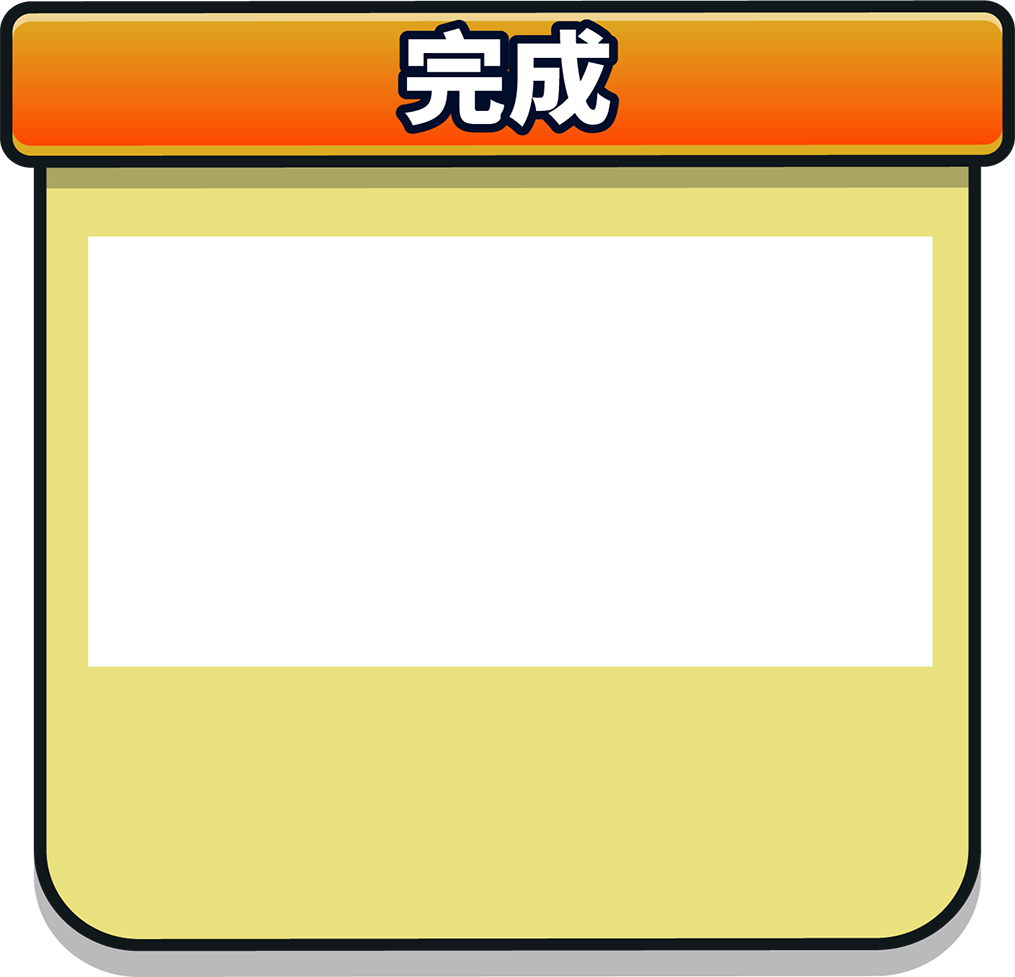
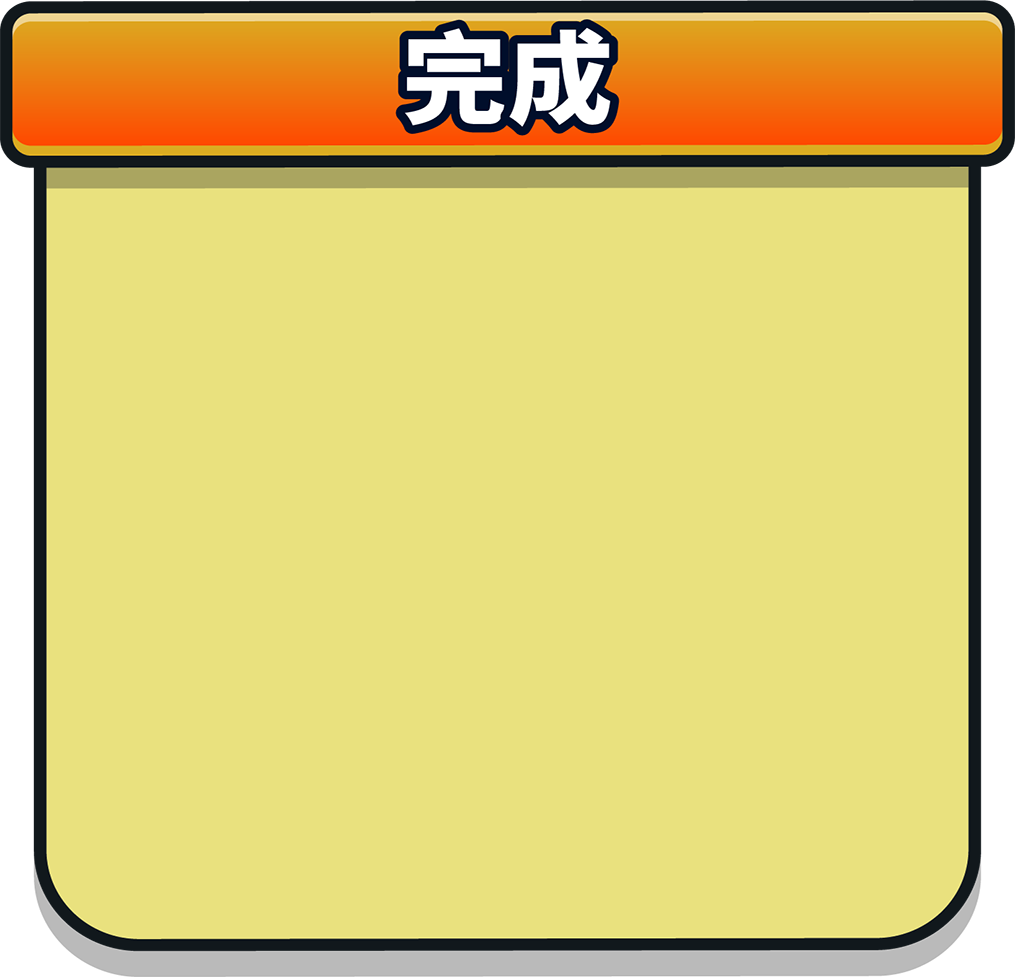
update: add end animation

diff --git a/src/games/game_26/components/DialogTipBox.js b/src/games/game_26/components/DialogTipBox.js
@@ -1,7 +1,7 @@
 import Phaser from 'phaser'
 import EndSceneExitButton from './EndSceneExitButton'
 import RetryButton from './RetryButton'
-// import { createVictoryAnimations } from '../assets/animations/VictoryAnimation';
+
 import GameSprite from '../components/GameSprite';
 
 export default class DialogTipBox extends Phaser.GameObjects.Container {
@@ -15,13 +15,13 @@ export default class DialogTipBox extends Phaser.GameObjects.Container {
 
         this.setSize(dialogTipBox.width, dialogTipBox.height);
 
-        // createVictoryAnimations(scene.anims);
 
-        let victoryAnimation= new GameSprite(scene, 25, -20, 'questionPicture2').setScale(0.3);
-        // victoryAnimation.play('victoryAnimation');
+
+        let endAnimation = new GameSprite(scene, 0, -40, 'endTexture').setScale(1.4);
+        endAnimation.play('endAnimation');
         this.add([
             dialogTipBox,
-            victoryAnimation,
+            endAnimation,
             new RetryButton(scene, - dialogTipBox.width * 0.22, dialogTipBox.height * 0.35, 'Tutor'),
             new EndSceneExitButton(scene, dialogTipBox.width * 0.22, dialogTipBox.height * 0.35)
         ])

diff --git a/src/games/game_26/scenes/EndScene.js b/src/games/game_26/scenes/EndScene.js
@@ -1,5 +1,6 @@
 import BasicScene from './BasicScene'
 import GameEndDialog from '../components/DialogTipBox'
+import { createEndAnimation } from '../assets/animations/EddAnimation';
 
 
 
@@ -13,7 +14,7 @@ export default class EndScene extends BasicScene {
     create() {
 
         super.create();
-
+        createEndAnimation(this.anims);
         this.buildBg('backgroundTutorEnd')
 
         this.endBroad = new GameEndDialog(this, this.getColWidth(6), this.getRowHeight(6));

diff --git a/src/games/game_26/scenes/PreloaderScene.js b/src/games/game_26/scenes/PreloaderScene.js
@@ -84,6 +84,9 @@ export default class PreloaderScene extends BasicScene {
             },
             'starTexture': {
                 img: require('../assets/atlas/atlas_star.png'), data: require('../assets/atlas/atlas_star.json')
+            },
+            'endTexture': {
+                img: require('../assets/atlas/atlas_end.png'), data: require('../assets/atlas/atlas_end.json')
             }
         }
 

diff --git a/src/games/game_26/assets/animations/EddAnimation.js b/src/games/game_26/assets/animations/EddAnimation.js
@@ -1,0 +1,14 @@
+
+/**
+        * 
+        * @param {Phaser.Animations.AnimationManager} anims 
+        */
+export const createEndAnimation = (anims) => {
+    anims.create({
+        key: 'endAnimation',
+        delay: 200,
+        frames: anims.generateFrameNames('endTexture', { prefix: 'end_', start: 0, end: 23, zeroPad: 4 }),
+        frameRate: 24,
+        repeat: -1
+    });
+}
